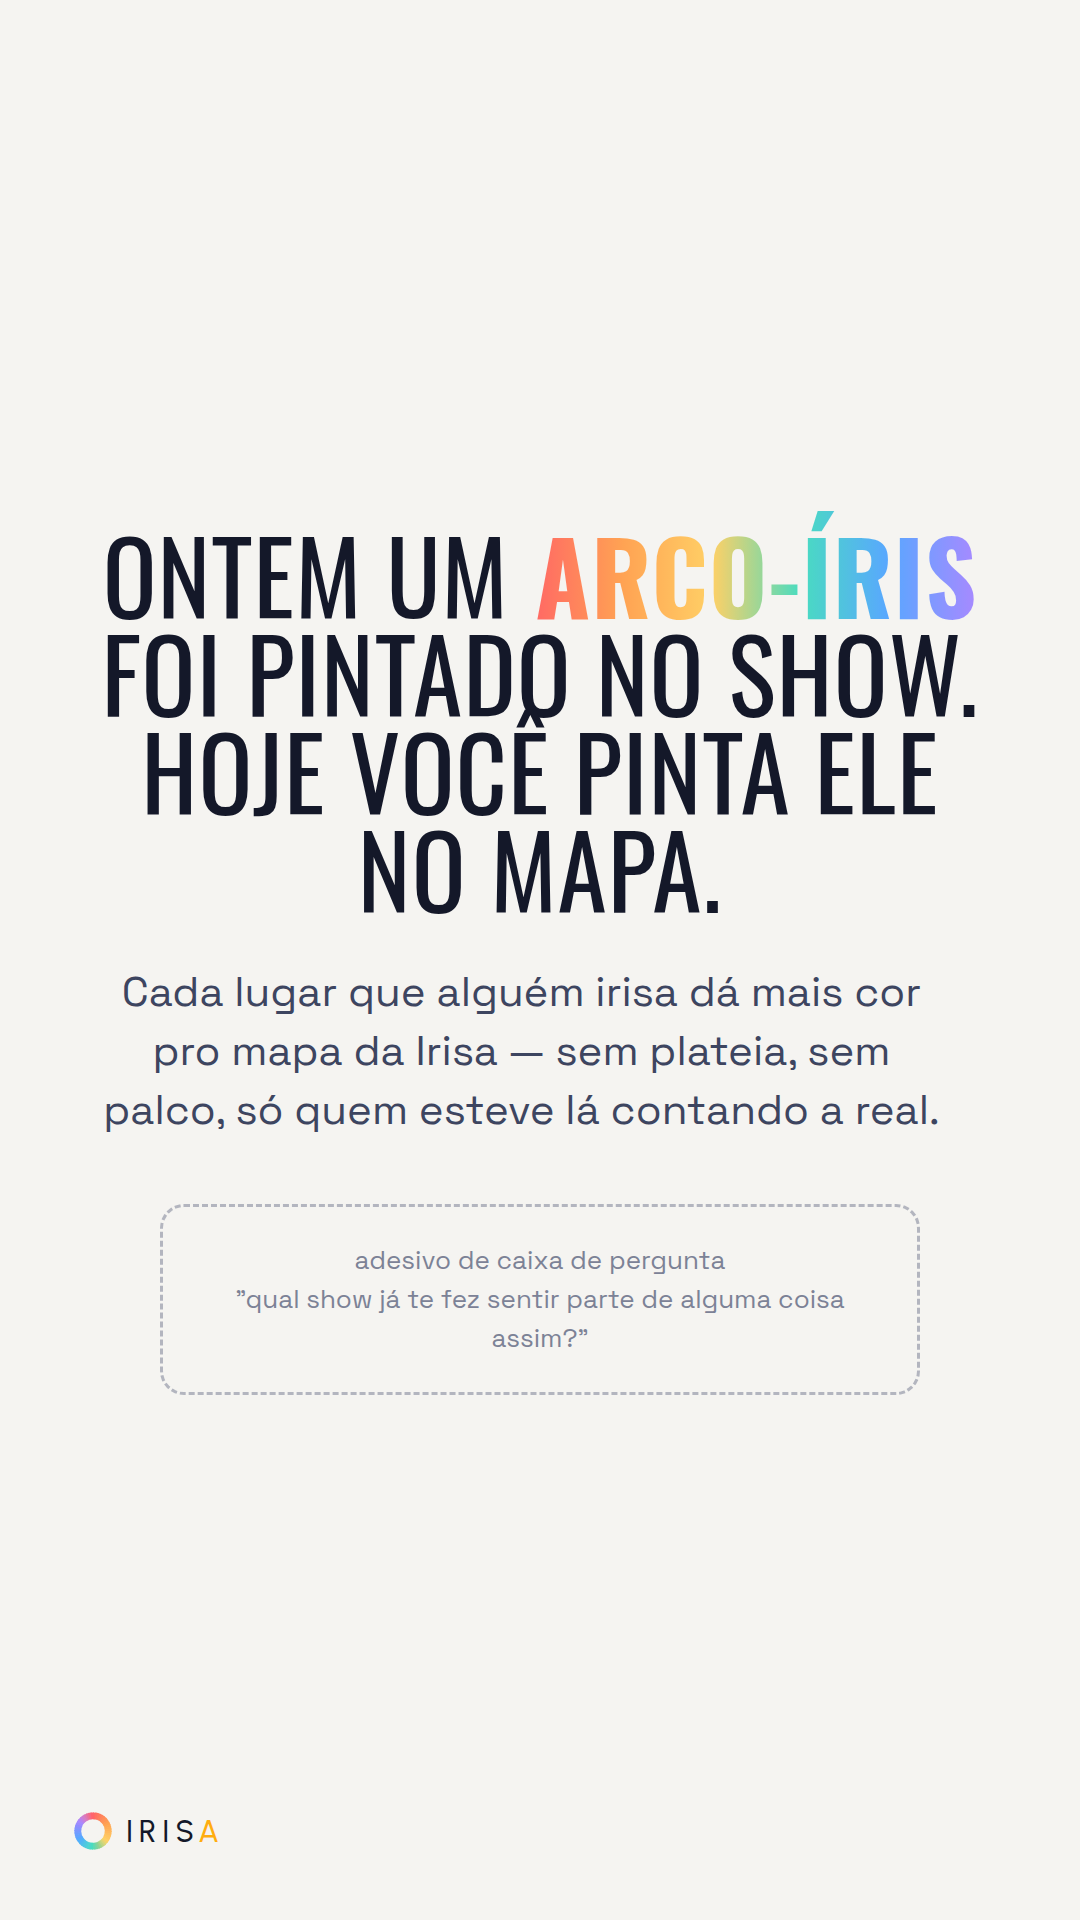
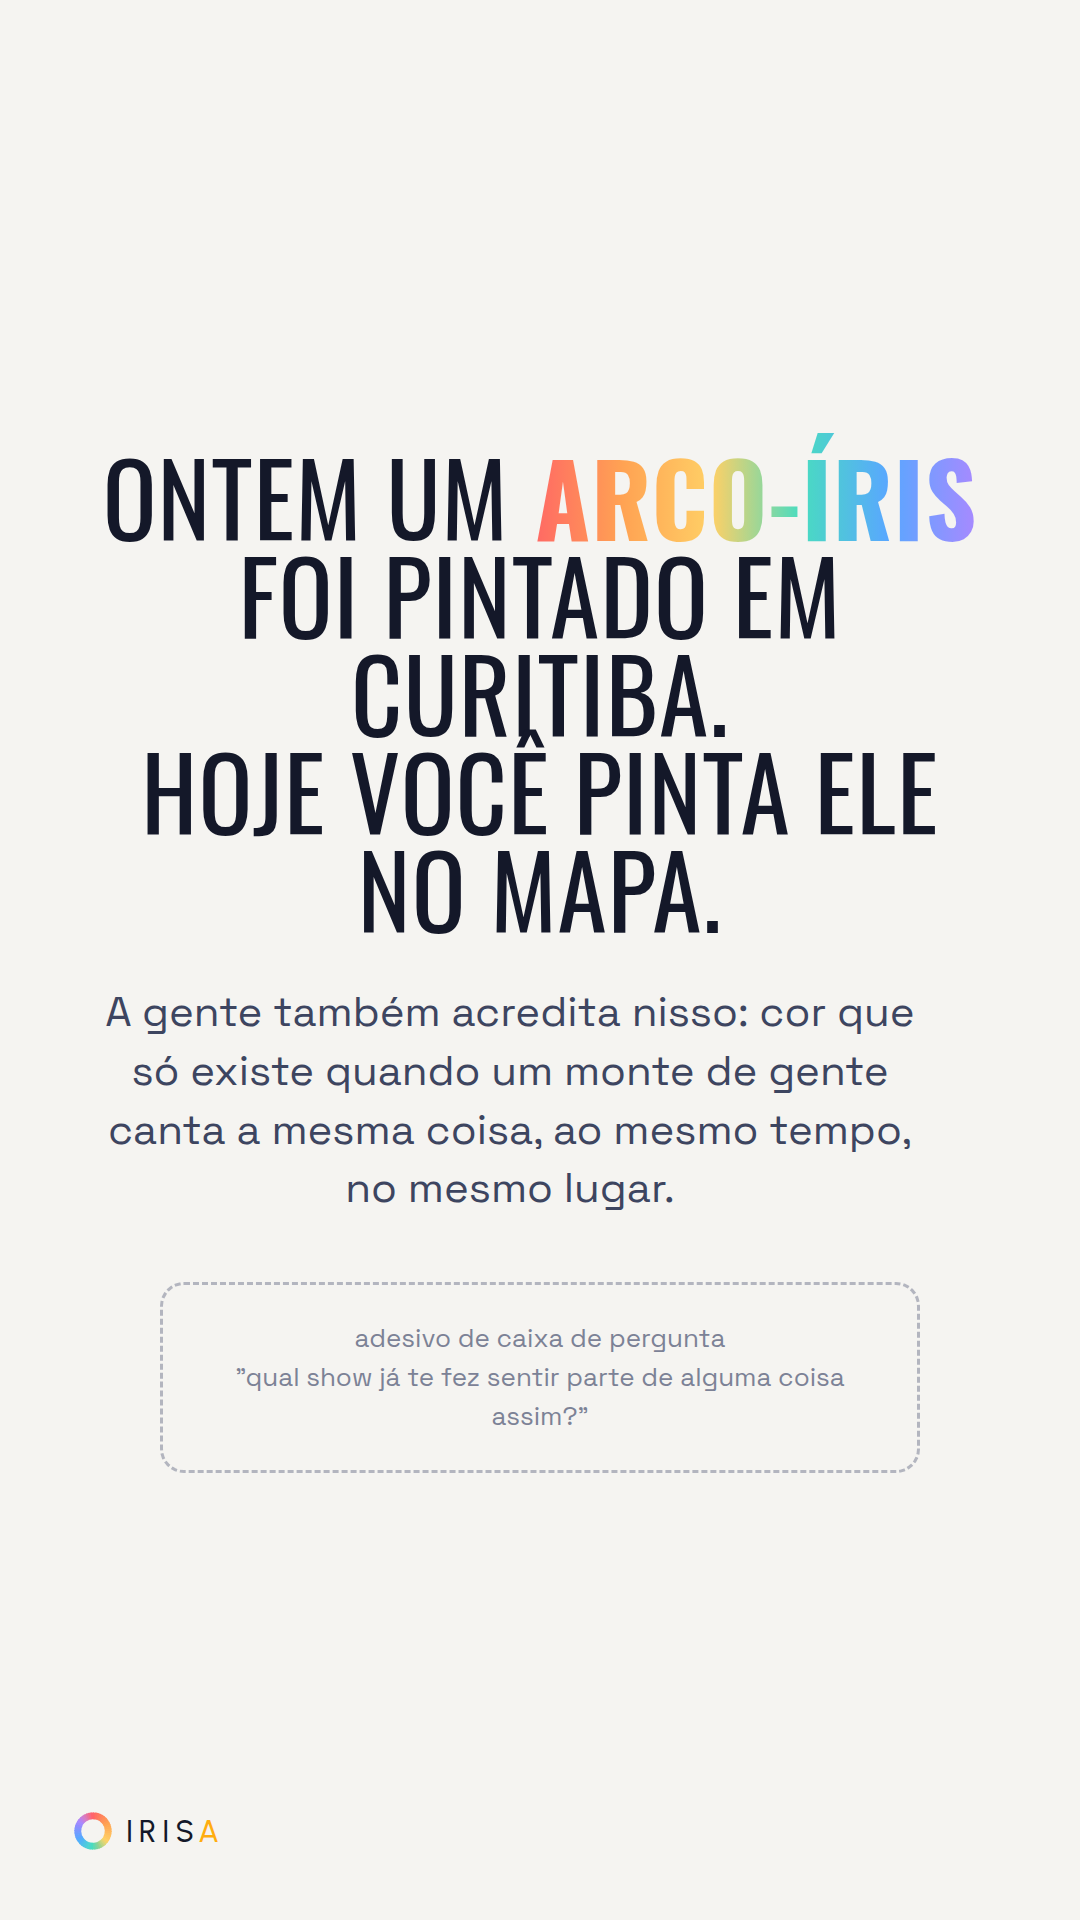
Story de hoje: cita Curitiba em vez do show, corpo volta pra versão original

Changed region(s): [[0.0917, 0.2188, 0.9167, 0.75]]

diff --git a/docs/story-arcoiris.html b/docs/story-arcoiris.html
@@ -41,11 +41,11 @@ body{font-family:var(--body);color:var(--ink);display:flex;flex-direction:column
   <div class="c">
     <p class="big c" style="font-size:100px;margin:0 0 46px">
       <span class="lt">Ontem um</span> <span class="rainbow">arco-íris</span><br>
-      <span class="lt">foi pintado no show.</span><br>
+      <span class="lt">foi pintado em Curitiba.</span><br>
       <span class="lt">Hoje você pinta ele</span><br>
       <span class="lt">no mapa.</span>
     </p>
-    <p class="body c">Cada lugar que alguém irisa dá mais cor pro mapa da Irisa — sem plateia, sem palco, só quem esteve lá contando a real.</p>
+    <p class="body c">A gente também acredita nisso: cor que só existe quando um monte de gente canta a mesma coisa, ao mesmo tempo, no mesmo lugar.</p>
   </div>
   <div class="zone" style="margin-top:64px">adesivo de caixa de pergunta<br>"qual show já te fez sentir parte de alguma coisa assim?"</div>
   <div class="brand"><svg class="mark" viewBox="0 0 100 100"><use href="#radarmin"></use></svg><span>Iris<b>a</b></span></div>
